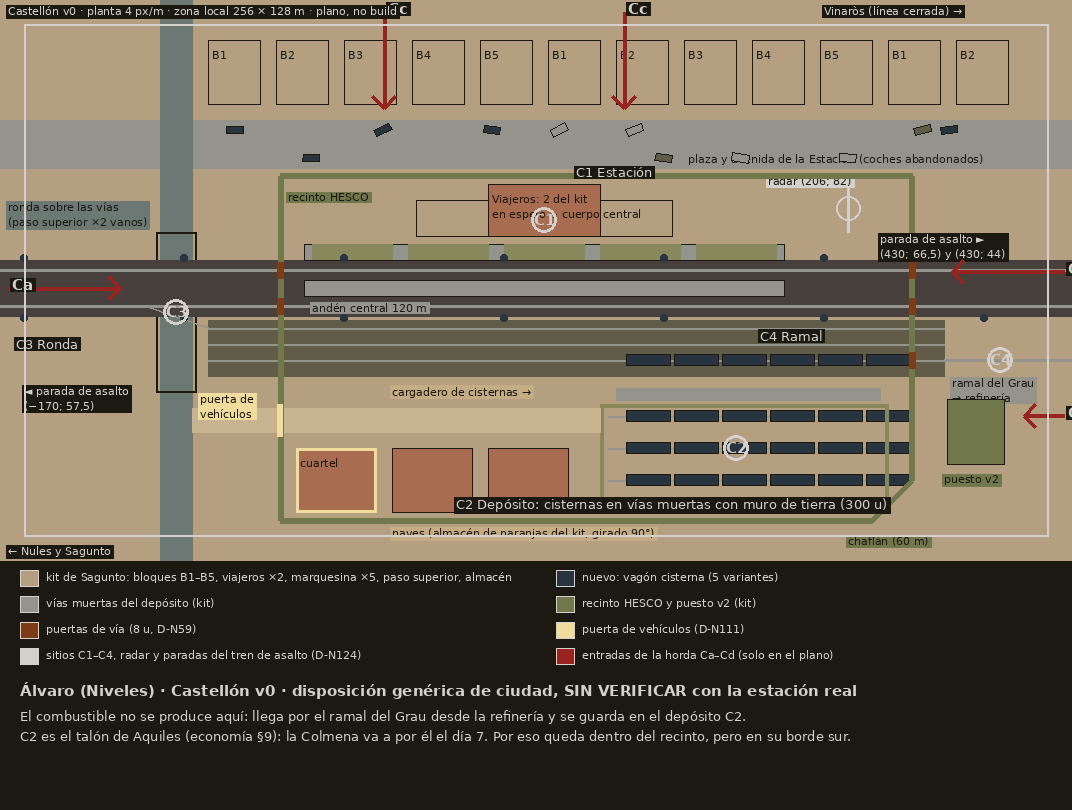
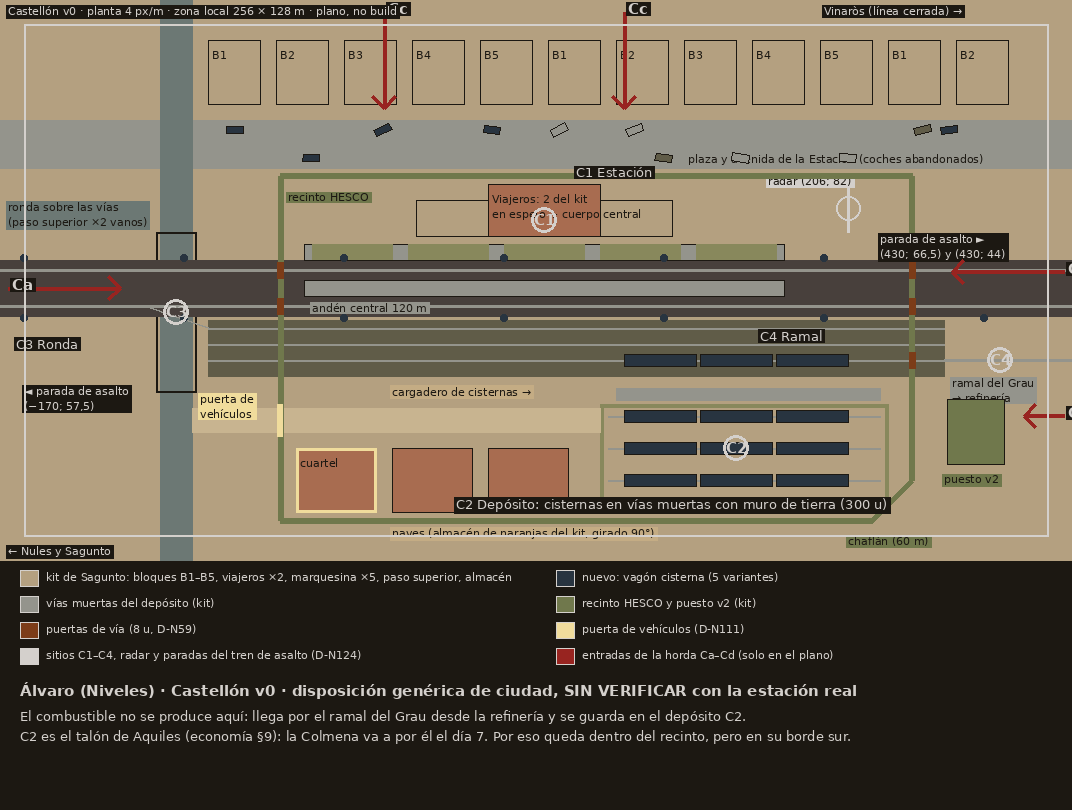
Castellón v0: cisternas a la medida del vagón de Teo (18 m)
Claude-Session: https://claude.ai/code/session_01A4RyjScdBuNc7GbjKkppYP

diff --git a/docs/niveles/herramientas/plano_castellon_v0.py b/docs/niveles/herramientas/plano_castellon_v0.py
@@ -42,12 +42,12 @@ for x in range(0,257,40): d.ellipse([P(x-0.8,70.3),P(x+0.8,68.7)],fill="#283440"
 R(98,75,116,84,fill="#b4a080",outline="#1c1812"); R(144,75,162,84,fill="#b4a080",outline="#1c1812"); R(116,75,144,88,fill="#a86c50",outline="#1c1812")
 T(117,86,"Viajeros: 2 del kit\nen espejo + cuerpo central","#1c1812",FS)
 # cargadero de cisternas y depósito de combustible (nuevo: vagón cisterna y depósito flexible)
-for x in range(150,212,12): rot(x+6,44,11,2.8,0,"#283440")
+for x in (150,169,188): rot(x+9,44,18,3,0,"#283440")
 T(92,37.8,"cargadero de cisternas →","#1c1812",FS,"#c4ac84")
 R(148,34,214,37,fill="#94948c")
 for z in (14,22,30):
     L([(146,z),(214,z)],"#94948c",2)
-    for x in range(150,212,12): rot(x+6,z,11,2.8,0,"#283440")
+    for x in (150,169,188): rot(x+9,z,18,3,0,"#283440")
 R(144,6,216,33,outline="#88885c",w=4)
 # naves de logística al suroeste (almacén de naranjas del kit, otra orientación)
 for x in (68,92,116): R(x,6,x+20,22,fill="#a86c50",outline="#1c1812")

diff --git a/docs/niveles/castellon-nivel.md b/docs/niveles/castellon-nivel.md
@@ -23,7 +23,7 @@ Encargo de Eugenio (7-nov, 09:03): «manda a alguien a diseñar otra estación i
 | **Haz de mercancías** de 3 vías | Z 44 / 48 / 52, X 46–230 | Donde se forman los trenes de cisternas | Vía del kit |
 | **Ramal del Grau** | Sale por el este en Z 44 | Une la estación con la refinería y el puerto (SIN VERIFICAR con el trazado real) | Vía del kit. Por aquí llega el combustible |
 | **Cargadero de cisternas** | X 148–214, Z 34–37 | Donde se llenan los trenes de combustible | `muelle_mercancias` de Sagunto (v0–v5), puesto en otra función |
-| **Depósito de combustible** | X 144–216, Z 6–33 | El ejército guarda en la estación lo que manda la refinería, aparcando cisternas llenas en tres vías muertas rodeadas de un muro de tierra | Vía del kit y vagones cisterna. **Castellón empieza con 1 depósito hecho: 100 + 200 = 300 u**, que son 5 días de producción (Hugo, `docs/economia/castellon-bucle.md`). Cada cisterna representa unas 17 u (18 cisternas ≈ 300 u), y las que se ven llenas o vacías dicen el stock |
+| **Depósito de combustible** | X 144–216, Z 6–33 | El ejército guarda en la estación lo que manda la refinería, aparcando cisternas llenas en tres vías muertas rodeadas de un muro de tierra | Vía del kit y vagones cisterna. **Castellón empieza con 1 depósito hecho: 100 + 200 = 300 u**, que son 5 días de producción (Hugo, `docs/economia/castellon-bucle.md`). Con el vagón de Teo (18 m entre topes y cuba de Ø 3 m, SIN VERIFICAR), en cada vía muerta de 68 m caben 3: **9 cisternas, cada una de unas 33 u (9 × 33 ≈ 300 u)**, y las que se ven llenas o vacías dicen el stock |
 | **Naves de logística y cuartel** | X 68–136, Z 6–22 (tres naves de 20 m) | Polígono junto a la estación. **La primera nave (X 68–88) es el cuartel**: en una principal crea tropas (D-N124 §1) | `almacen_naranjas` de Sagunto girado 90°. Un camino interior (Z 26–32) va de la puerta de vehículos (X 64, Z 25–33) al depósito |
 | **Recinto de HESCO** | X 64–222, Z 4–90 | **Lo levantaron los supervivientes de la ciudad.** Al reclamar Castellón se hereda dañado | HESCO y puertas del kit (dos de vía en cada extremo, una de vía para el ramal y la puerta de vehículos D-N111 al oeste) |
 | **Puesto v2** | (238; 26), fuera del recinto | Cubre la cabeza del ramal, por donde entra el combustible | `puesto_frente` |
@@ -70,6 +70,6 @@ Castellón cumple todo lo obligatorio de una **principal** (§2.1): doble vía y
 - **Teo**: el vagón cisterna (5 variantes y el decal de lleno o vacío) y el cuerpo central del edificio de viajeros.
 - **Paula**: la estación de Castellón y el ramal del Grau, si hay fotos libres.
 - **Nacho y Marcos**: el dato por estación (§3), después del MVP.
-- **FPS**: 12 bloques, 2 edificios de viajeros, 5 marquesinas, unos 20 coches, 24 cisternas (18 en el depósito y 6 en el cargadero) y el recinto. Menos vegetación que Sagunto. Hay que medirlo (D-N70).
+- **FPS**: 12 bloques, 2 edificios de viajeros, 5 marquesinas, unos 20 coches, 12 cisternas (9 en el depósito y 3 en el cargadero) y el recinto. Menos vegetación que Sagunto. Hay que medirlo (D-N70).
 
 — Álvaro (Niveles) · [retrato](/mnt/project-files/equipo/retrato_alvaro_64_x4.png)
